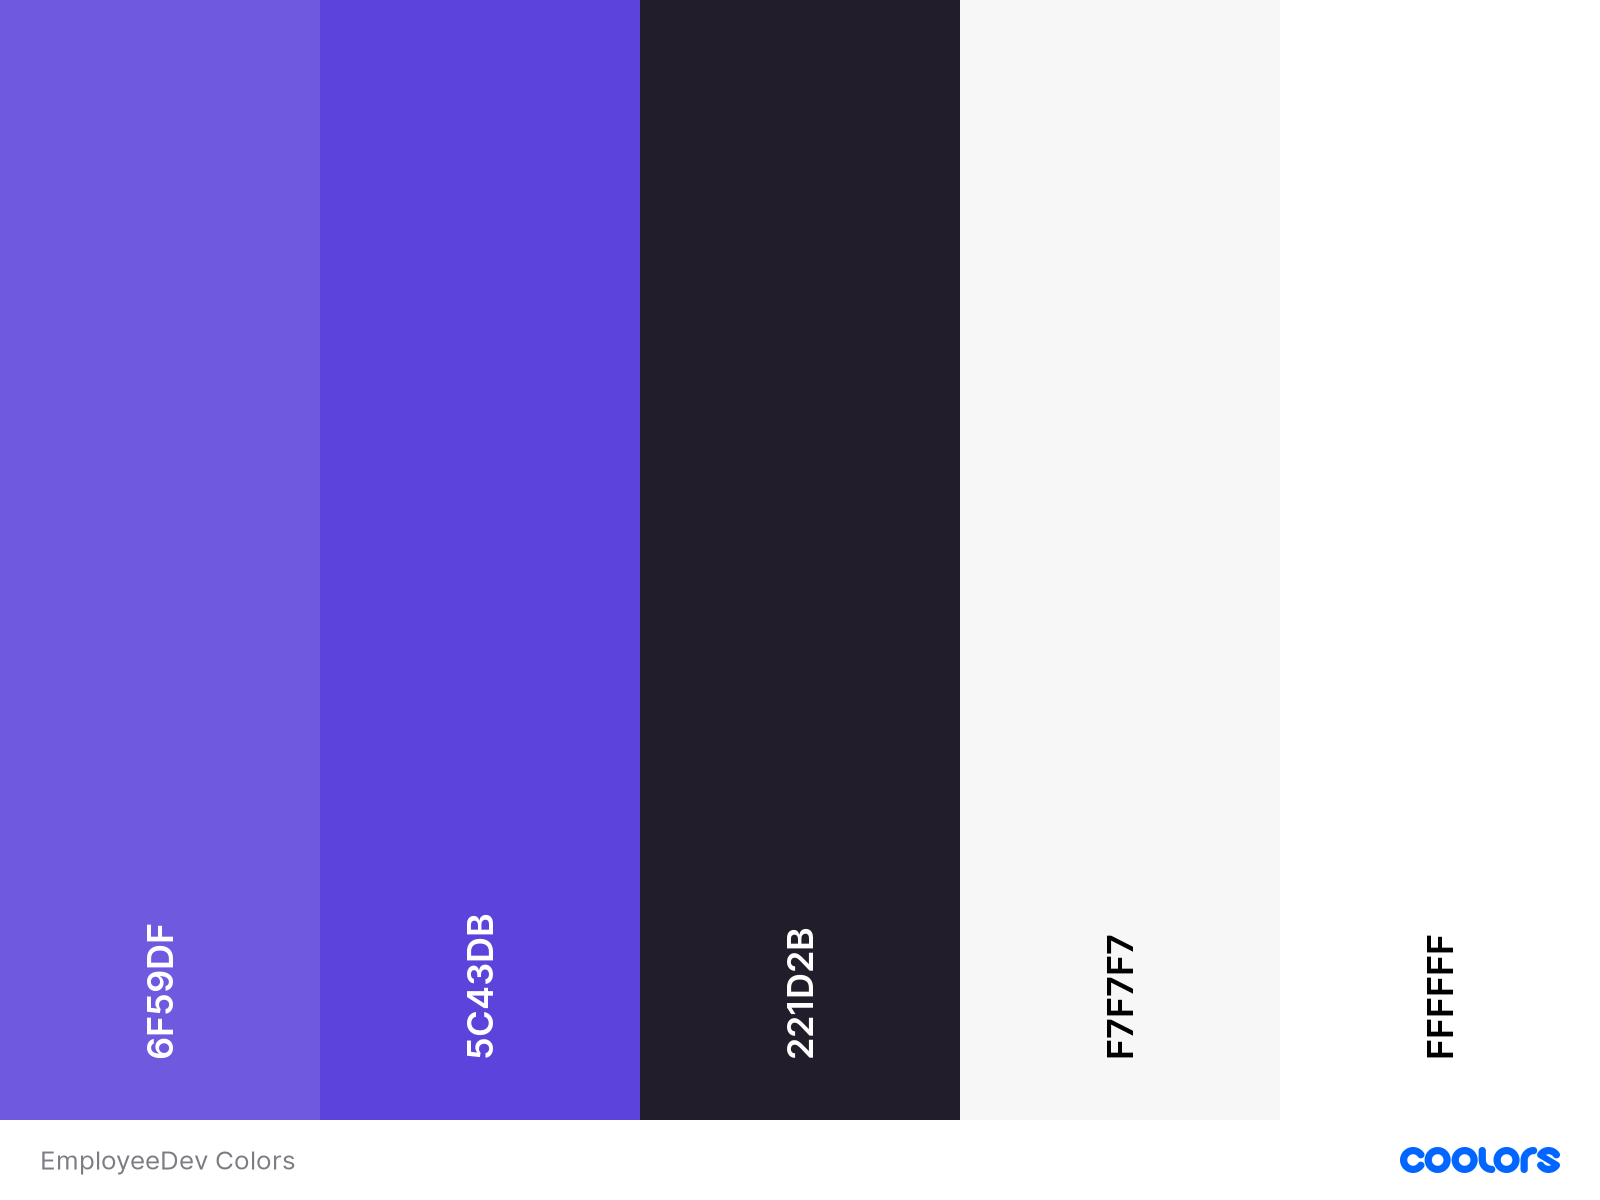
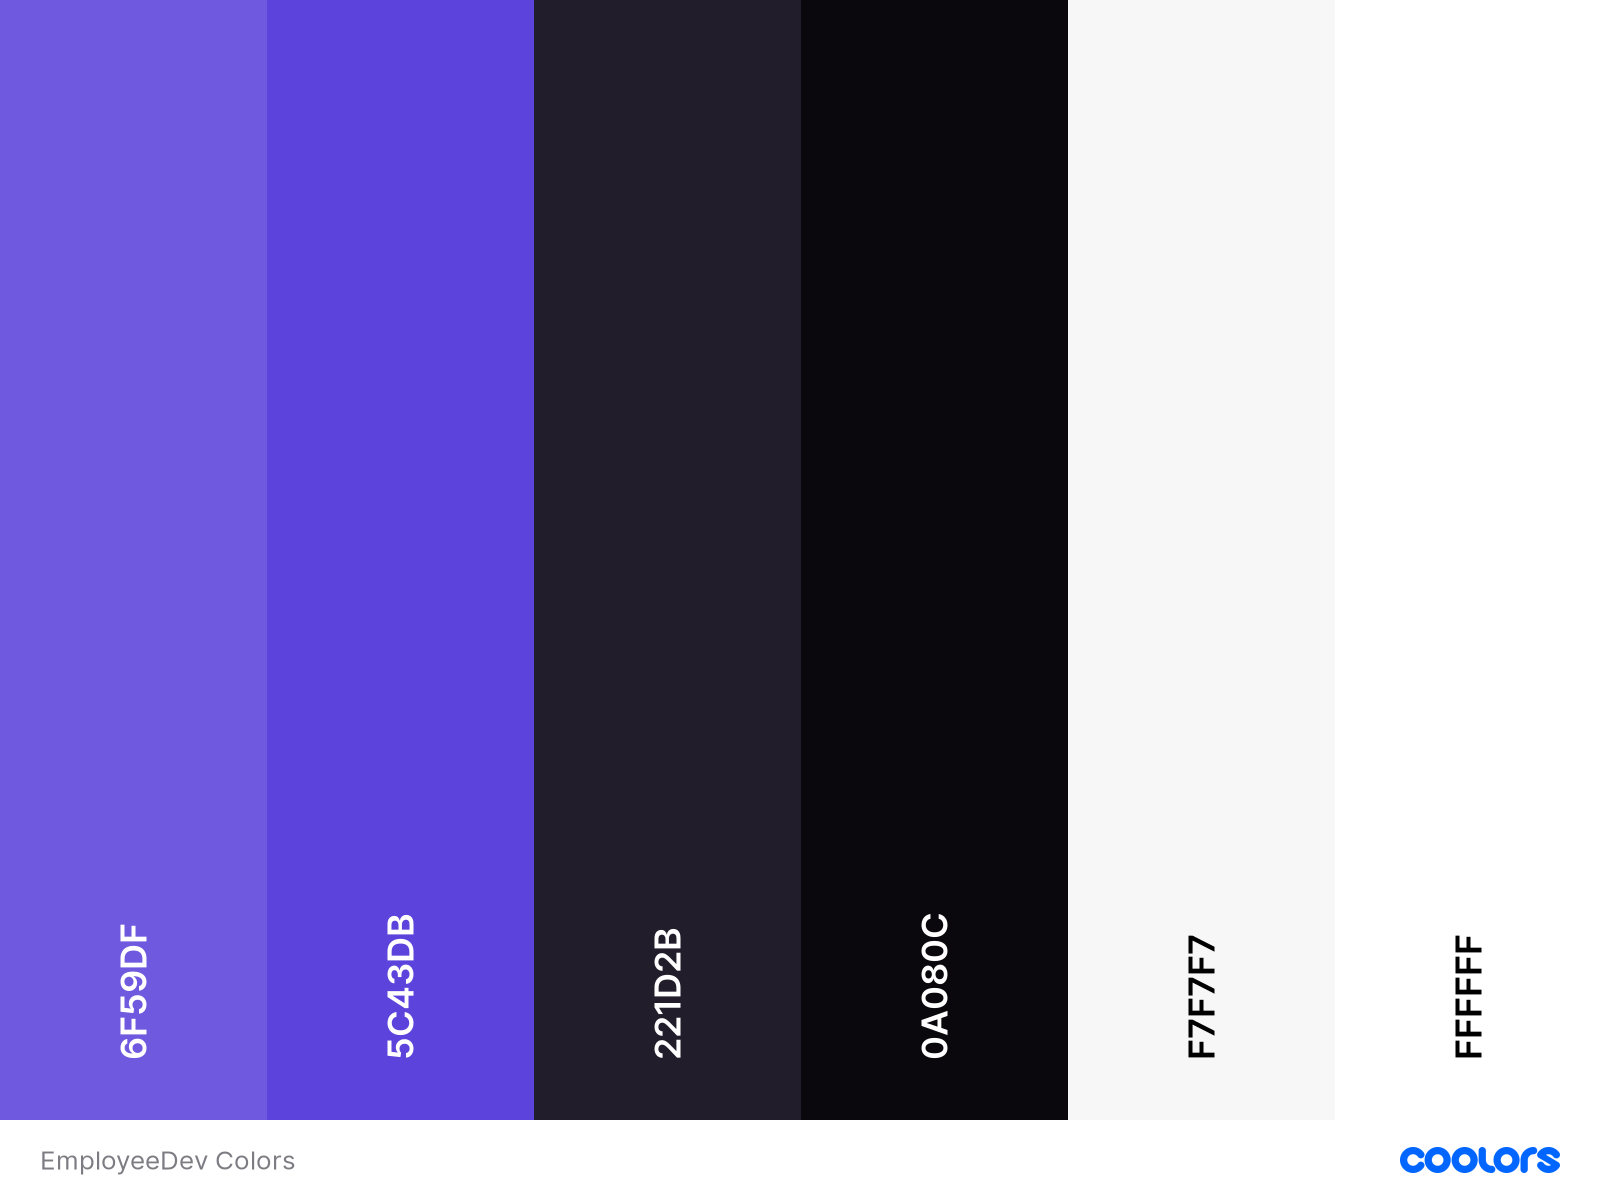
Added global color variables, replaced color palette image

diff --git a/src/components/layout/TheHeader.vue b/src/components/layout/TheHeader.vue
@@ -4,7 +4,7 @@
       <a class="nav-brand" href="/">EmployeeDev</a>
       <ul class="nav-list">
         <li class="nav-item">Process Details</li>
-        <li class="nav-item">Benefits &amp; Savings </li>
+        <li class="nav-item">Benefits &amp; Savings</li>
       </ul>
       <ul class="nav-right">
         <li class="nav-item">Hey, Varun</li>
@@ -20,7 +20,7 @@
 
 <style scoped>
 .nav-wrapper {
-  background-color: #6f59df;
+  background-color: var(--primary);
   height: 65px;
   display: flex;
   align-items: center;
@@ -28,6 +28,7 @@
   top: 0;
   left: 0;
   width: 100%;
+  box-shadow: 2px 2px 10px rgba(0, 0, 0, 0.3);
 }
 
 .main-nav {
@@ -43,7 +44,7 @@
   text-decoration: none;
   font-weight: 500;
   font-size: 1.5em;
-  color: #221d2b;
+  color: var(--secondary);
 }
 
 .nav-list,

diff --git a/src/components/UI/BaseButton.vue b/src/components/UI/BaseButton.vue
@@ -21,26 +21,26 @@ button {
   border: none;
   padding: 0.5em 1em;
   font-size: 1em;
-  background-color: #6f59df;
+  background-color: var(--primary);
   border-radius: 3px;
   cursor: pointer;
-  color: #ffffff;
+  color: var(--background-light);
   font-weight: 300;
   transition: all 0.3s ease-in-out;
 }
 
 button:hover,
 button:focus {
-  background-color: #5c43db;
+  background-color: var(--primary-variant);
   outline: none;
   transform: translateY(-10%);
 }
 
 .secondary {
-    background-color: #221D2B;
+    background-color: var(--secondary);
 }
 
 .secondary:hover, .secondary:focus {
-    background-color: #0A080C;
+    background-color: var(--secondary-variant);
 }
 </style>

diff --git a/src/assets/css/main.css b/src/assets/css/main.css
@@ -3,6 +3,15 @@
     font-family: 'Poppins', sans-serif;
 }
 
+:root {
+    --background: #F7F7F7;
+    --background-light: #FFFFFF;
+    --primary: #6F59DF;
+    --primary-variant: #5C43DB;
+    --secondary: #221D2B;
+    --secondary-variant: #0A080C;
+}
+
 html,
 body {
     margin: 0;
@@ -10,8 +19,8 @@ body {
 }
 
 body {
-    background-color: #F7F7F7;
-    color: #221d2b;
+    background-color: var(--background);
+    color: var(--secondary);
 }
 
 .main-app {

diff --git a/src/components/UI/BaseCard.vue b/src/components/UI/BaseCard.vue
@@ -6,7 +6,7 @@
 
 <style scoped>
 .card {
-  background-color: #fff;
+  background-color: var(--background-light);
   border-radius: 5px;
   padding: 1em;
   max-width: 760px;

diff --git a/src/components/UI/FormElement.vue b/src/components/UI/FormElement.vue
@@ -42,6 +42,6 @@ input {
 textarea:focus,
 input:focus {
   outline: none;
-  box-shadow: 0 0 2pt 1pt #6f59df;
+  box-shadow: 0 0 2pt 1pt var(--primary-variant);
 }
 </style>
